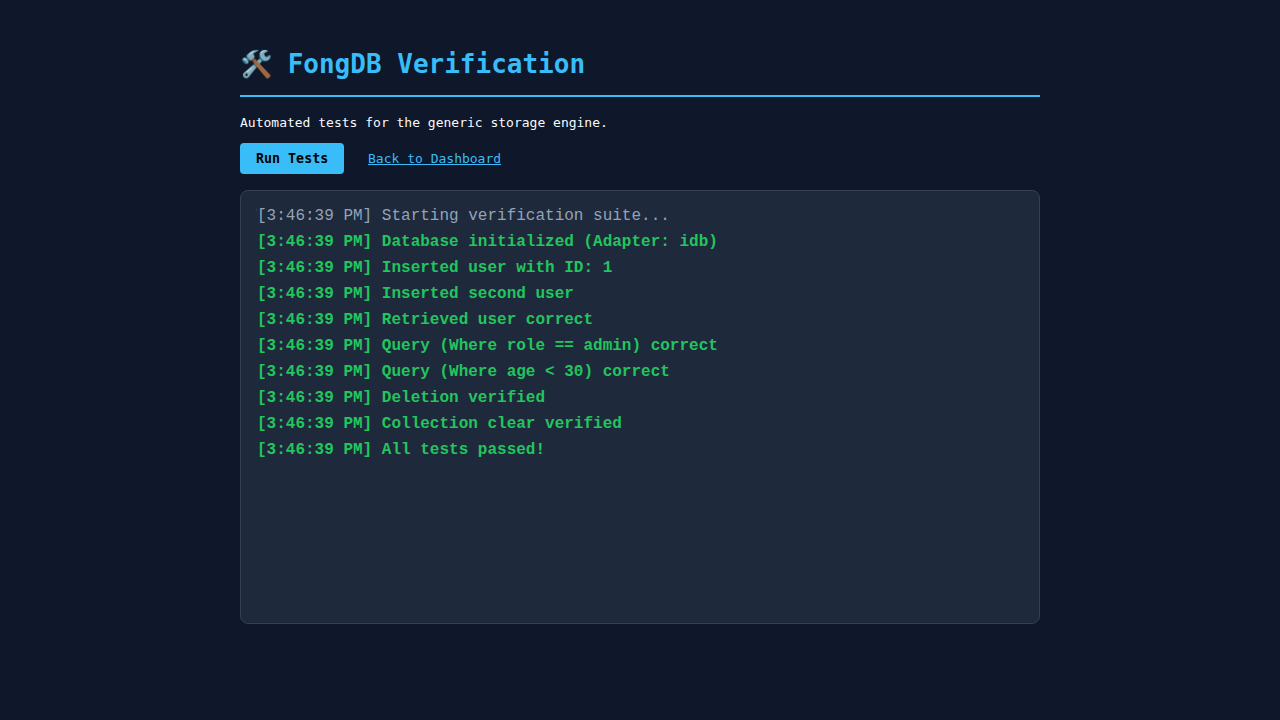
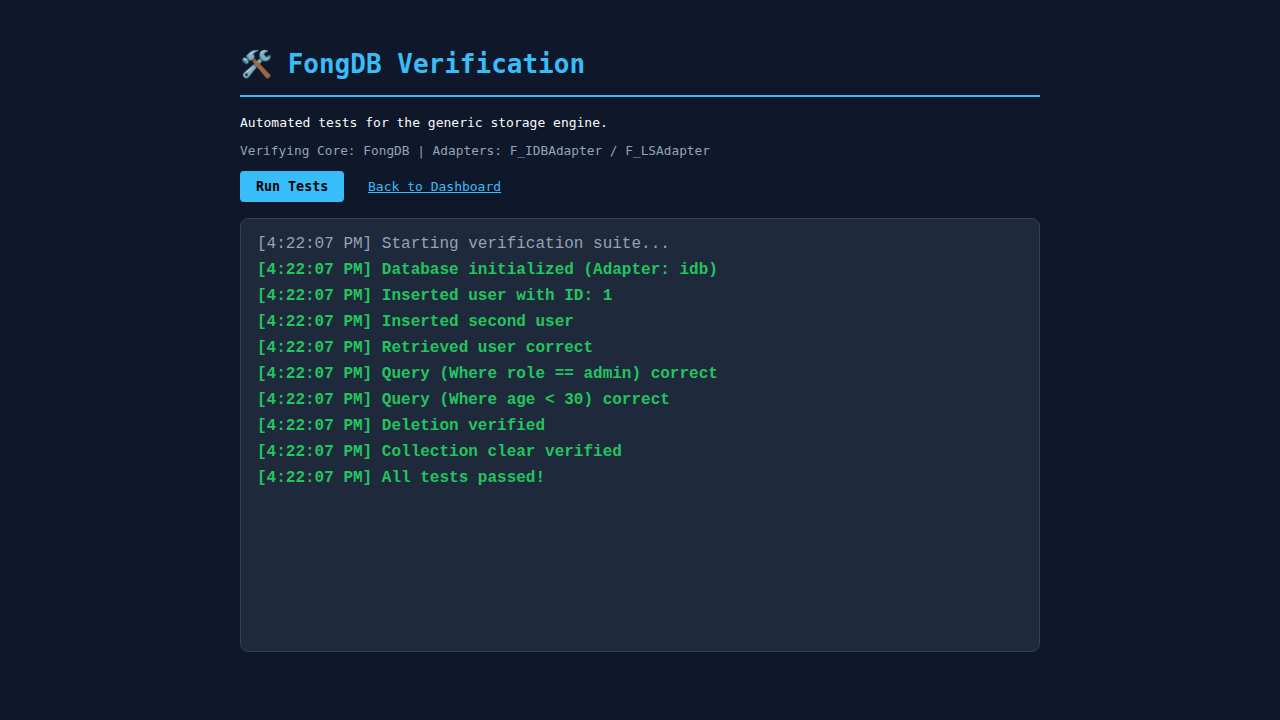
Refactor DB connector to use F_ adapter prefix and document NEGEN exclusivity
- Renamed adapters to F_IDBAdapter and F_LSAdapter to obfuscate Fong prefix
- Updated db/README.md to explicitly reserve NEGEN for the game engine
- Updated core engine and consumers to use new adapter names
- Updated Shipment Tracker to load correct script file
- Verified with internal test portal

Changed region(s): [[0.1875, 0.1833, 0.5625, 0.6722], [0.5, 0.1833, 0.5625, 0.2139]]

diff --git a/projects/internal-tests/test_db.html b/projects/internal-tests/test_db.html
@@ -53,6 +53,7 @@
 <body>
     <h1>🛠 FongDB Verification</h1>
     <p>Automated tests for the generic storage engine.</p>
+    <p style="font-size: 0.8rem; color: #94a3b8;">Verifying Core: FongDB | Adapters: F_IDBAdapter / F_LSAdapter</p>
 
     <div class="controls">
         <button id="runTestsBtn">Run Tests</button>
@@ -96,6 +97,11 @@
             try {
                 // 1. Initialization
                 if (!window.FongDB) throw new Error('FongDB class not found');
+
+                // Verify Adapters are present
+                if (!window.F_IDBAdapter) throw new Error('F_IDBAdapter not found');
+                if (!window.F_LSAdapter) throw new Error('F_LSAdapter not found');
+
                 const db = new FongDB(CONFIG);
                 await db.init();
                 log(`Database initialized (Adapter: ${db.adapter.type})`, 'success');
@@ -149,10 +155,6 @@
                 } else {
                     throw new Error('Clear failed');
                 }
-
-                // Clean up (Delete the temp DB)
-                // Note: Generic adapter doesn't support deleteDatabase yet, so we leave it.
-                // In a real test env we would want to clean up.
 
                 log('All tests passed!', 'success');
 

diff --git a/db/core/fong-db.js b/db/core/fong-db.js
@@ -41,13 +41,13 @@
             var self = this;
             return new Promise(function(resolve, reject) {
                 // Select Adapter Class
-                // Note: Adapters are exported as NegenIDBAdapter/NegenLSAdapter
+                // Note: Adapters are exported as F_IDBAdapter/F_LSAdapter
                 var AdapterClass;
-                if (self.config.adapter === 'idb' && window.NegenIDBAdapter) {
-                    AdapterClass = window.NegenIDBAdapter;
-                } else if (window.NegenLSAdapter) {
+                if (self.config.adapter === 'idb' && window.F_IDBAdapter) {
+                    AdapterClass = window.F_IDBAdapter;
+                } else if (window.F_LSAdapter) {
                     console.warn('[FongDB] Falling back to LocalStorage adapter');
-                    AdapterClass = window.NegenLSAdapter;
+                    AdapterClass = window.F_LSAdapter;
                 } else {
                     reject(new Error('No suitable storage adapter found'));
                     return;

diff --git a/db/adapters/ls-adapter.js b/db/adapters/ls-adapter.js
@@ -8,13 +8,13 @@
 (function(window) {
     'use strict';
 
-    function NegenLSAdapter(config) {
+    function F_LSAdapter(config) {
         this.config = config;
         this.type = 'ls';
         this.prefix = this.config.name + ':';
     }
 
-    NegenLSAdapter.prototype = {
+    F_LSAdapter.prototype = {
         init: function() {
             // LocalStorage is synchronous and always ready
             return Promise.resolve();
@@ -109,6 +109,6 @@
         }
     };
 
-    window.NegenLSAdapter = NegenLSAdapter;
+    window.F_LSAdapter = F_LSAdapter;
 
 })(window);

diff --git a/db/adapters/idb-adapter.js b/db/adapters/idb-adapter.js
@@ -7,13 +7,13 @@
 (function(window) {
     'use strict';
 
-    function NegenIDBAdapter(config) {
+    function F_IDBAdapter(config) {
         this.config = config;
         this.type = 'idb';
         this.db = null;
     }
 
-    NegenIDBAdapter.prototype = {
+    F_IDBAdapter.prototype = {
         init: function() {
             var self = this;
             return new Promise(function(resolve, reject) {
@@ -161,6 +161,6 @@
         }
     };
 
-    window.NegenIDBAdapter = NegenIDBAdapter;
+    window.F_IDBAdapter = F_IDBAdapter;
 
 })(window);

diff --git a/projects/shipment-tracker/index.html b/projects/shipment-tracker/index.html
@@ -627,7 +627,7 @@
     <!-- Generic Storage Engine -->
     <script src="../../db/adapters/idb-adapter.js"></script>
     <script src="../../db/adapters/ls-adapter.js"></script>
-    <script src="../../db/core/negen-db.js"></script>
+    <script src="../../db/core/fong-db.js"></script>
 
     <!-- App Scripts -->
     <script src="js/db.js"></script>

diff --git a/db/README.md b/db/README.md
@@ -7,16 +7,17 @@
 A generic, adapter-based storage engine designed for the F.O.N.G. codebase. It provides a unified API for data persistence, abstracting away the underlying storage mechanism (IndexedDB, LocalStorage, etc.).
 
 **Naming Convention:**
-- **Core Engine:** `FongDB` (`db/core/fong-db.js`)
-- **Adapters:** `NegenIDBAdapter`, `NegenLSAdapter` (`db/adapters/`)
-  - *Note: The core engine is legacy-named `FongDB`, while adapters use the modern `Negen` naming convention.*
+- **NEGEN**: Exclusively reserved for the Game Engine.
+- **DB System**: Uses `Fong` prefix for the core engine only.
+    - **Core Engine:** `FongDB` (`db/core/fong-db.js`)
+    - **Adapters:** `F_IDBAdapter`, `F_LSAdapter` (`db/adapters/`) - *Prefix `F_` used to obfuscate naming.*
 
 ## Architecture
 The engine follows the **Adapter Pattern**:
 - **Core (`FongDB`)**: The main interface. Handles initialization, event emitting (Observer pattern), and adapter selection.
 - **Adapters**:
-    - `NegenIDBAdapter`: Wraps IndexedDB for robust, structured storage.
-    - `NegenLSAdapter`: Wraps LocalStorage as a fallback or for simple use cases.
+    - `F_IDBAdapter`: Wraps IndexedDB for robust, structured storage.
+    - `F_LSAdapter`: Wraps LocalStorage as a fallback or for simple use cases.
 - **Collections**: Data is organized into "collections" (analogous to SQL tables or NoSQL collections).
 
 ### Event System
